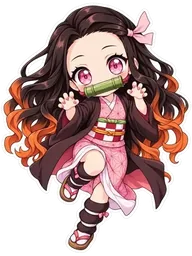
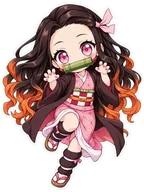
perf: 压缩首页贴纸与全站图片质量，减小首屏图片体积

diff --git a/src/config/siteConfig.ts b/src/config/siteConfig.ts
@@ -342,7 +342,11 @@ export const siteConfig: SiteConfig = {
 		// - "both": 同时输出 AVIF 和 WebP（浏览器自动选择最佳格式）
 		formats: "webp",
 		// 图片压缩质量 (1-100)，值越低体积越小但质量越差，推荐 70-85
-		quality: 85,
+		// 85 → 78：按 docs/pagespeed-optimization.md 第五节 P1-1，
+		// 所有经 Astro 处理的图（封面 / 壁纸 / 头像）普遍再降 20–30%，观感差异很小。
+		// 实测（§12.9）：首页引用的 33 张图 1479.7 KB → 1192.5 KB（−19.4%）；
+		// 首页单次实际加载的图片 396 KB → 328–352 KB（约 −11%~−17%）。
+		quality: 78,
 		// 为特定域名的图片添加 referrerpolicy="no-referrer" 属性
 		// 支持通配符 *，例如：["i0.hdslb.com", "*.bilibili.com"]
 		// 可解决指定域名图片加载时的 403 问题（如防盗链图片）
